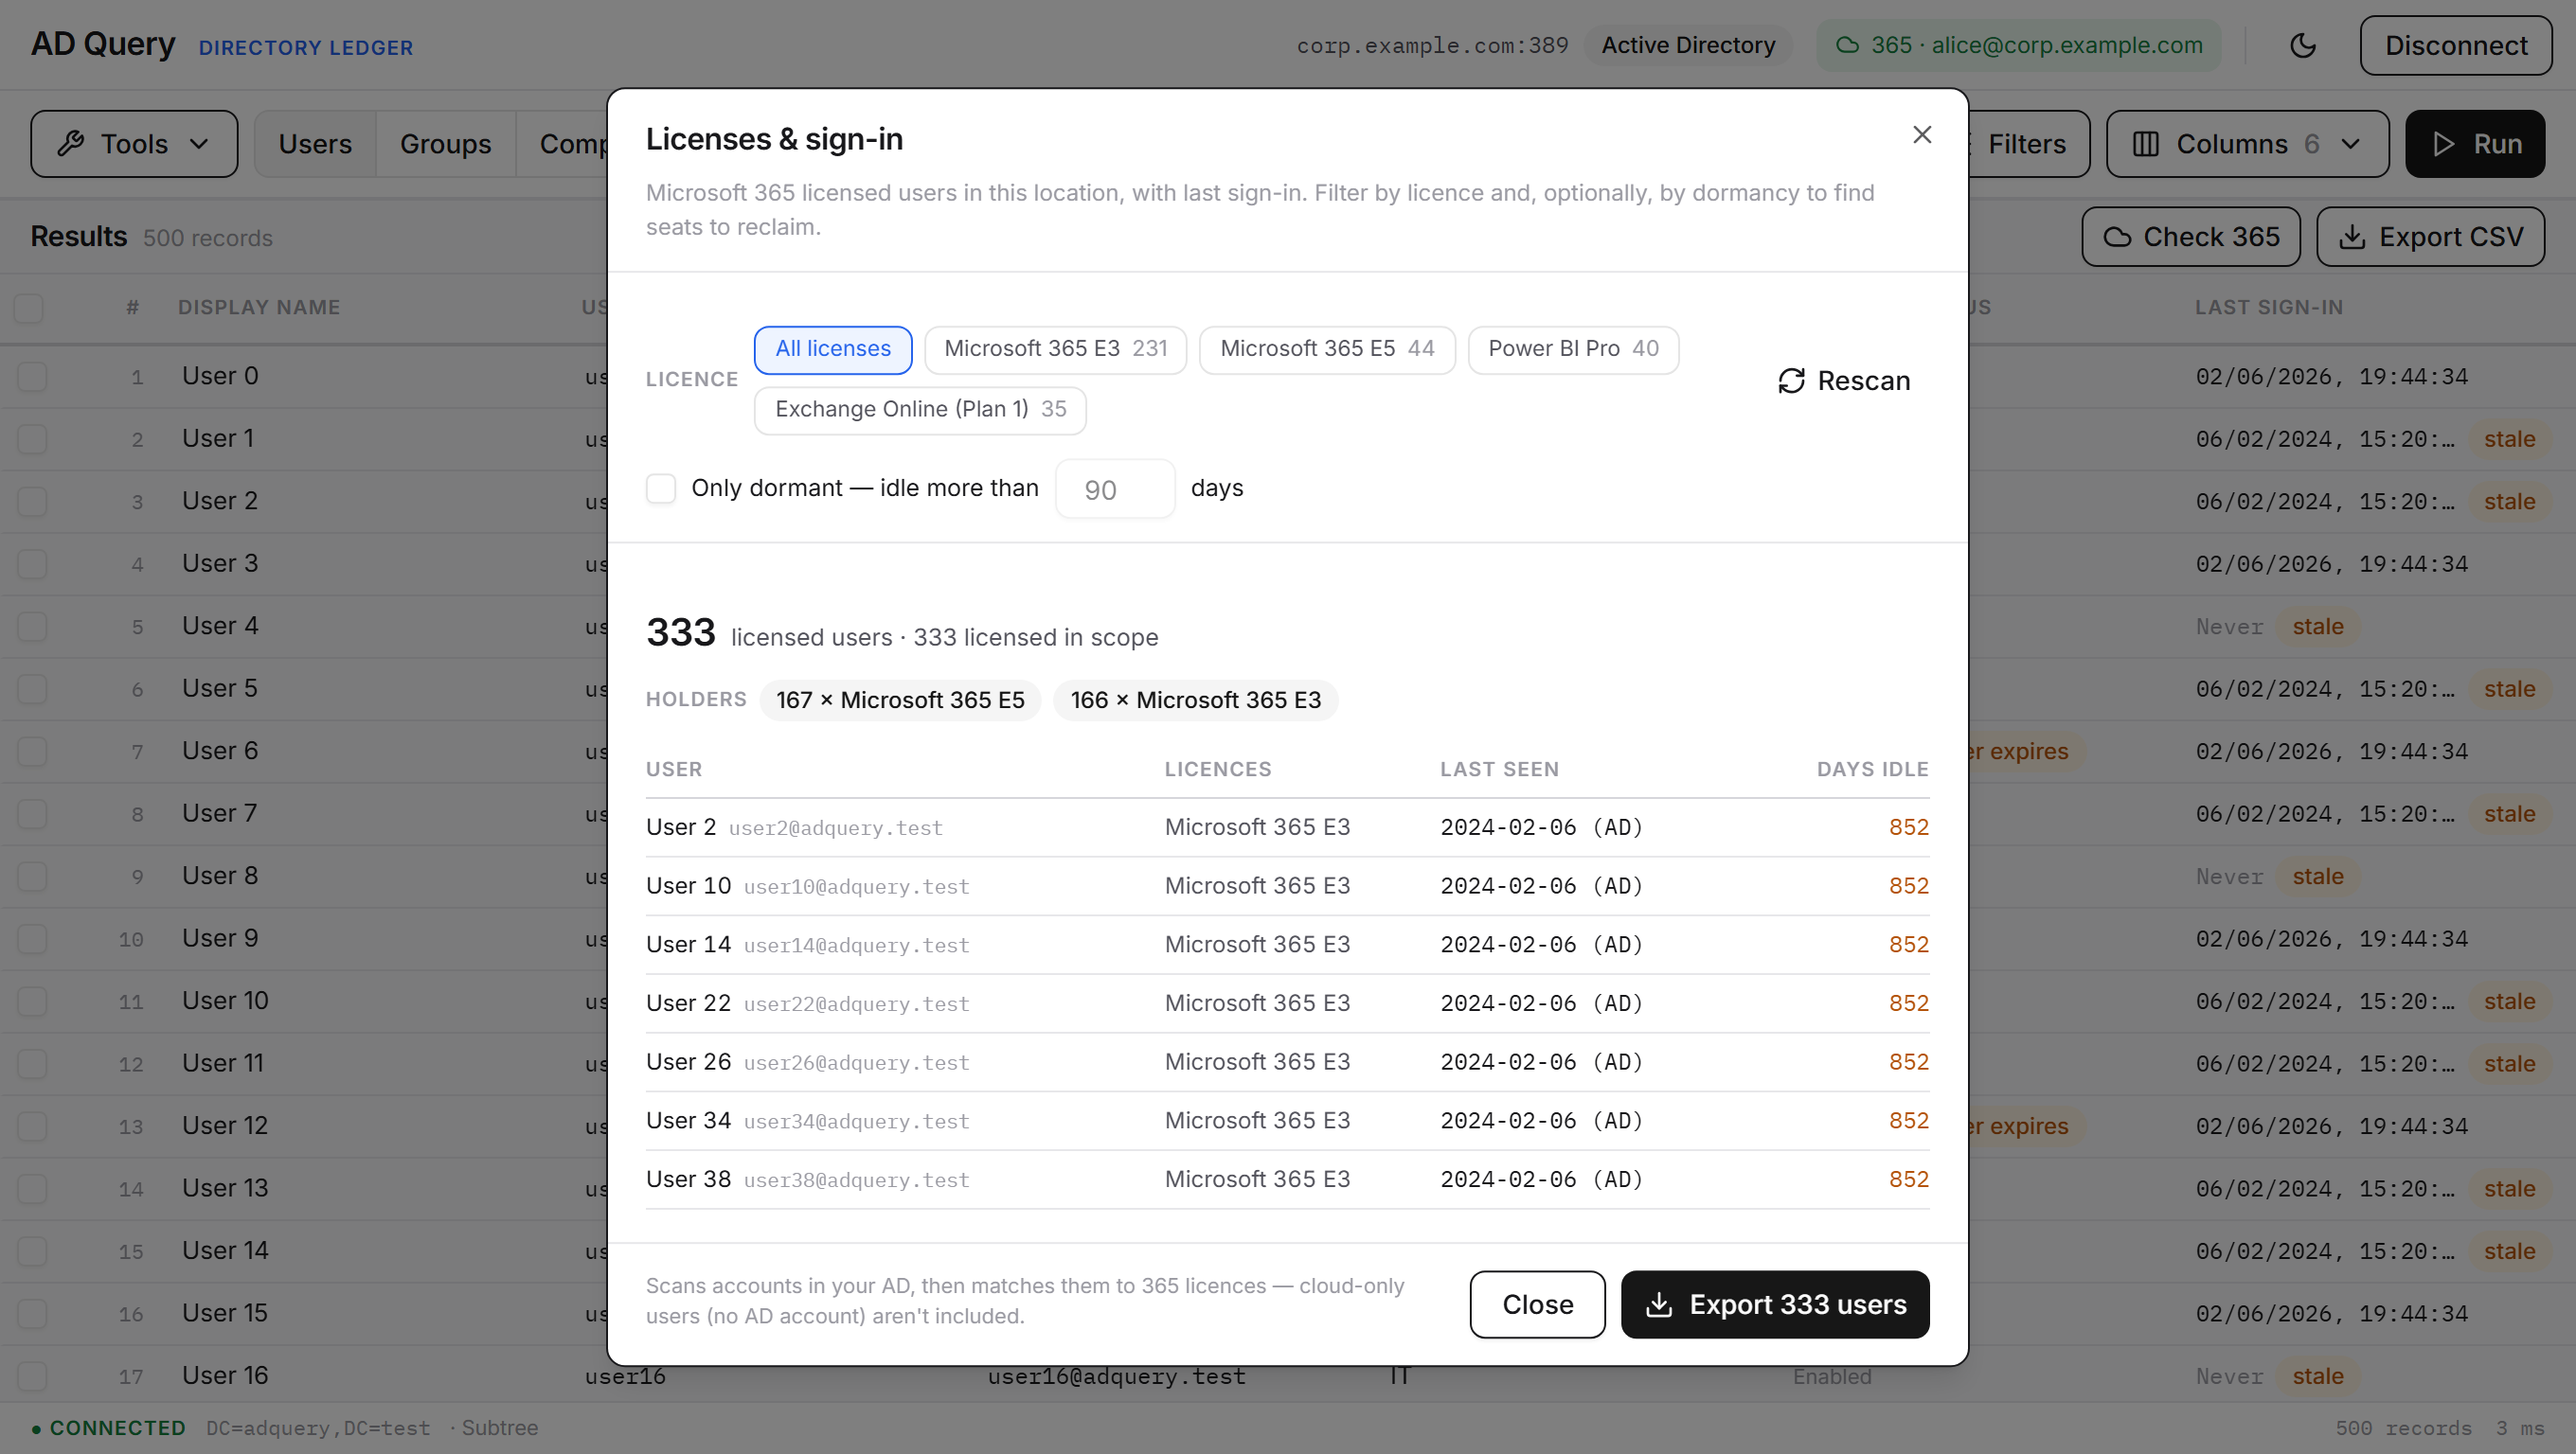
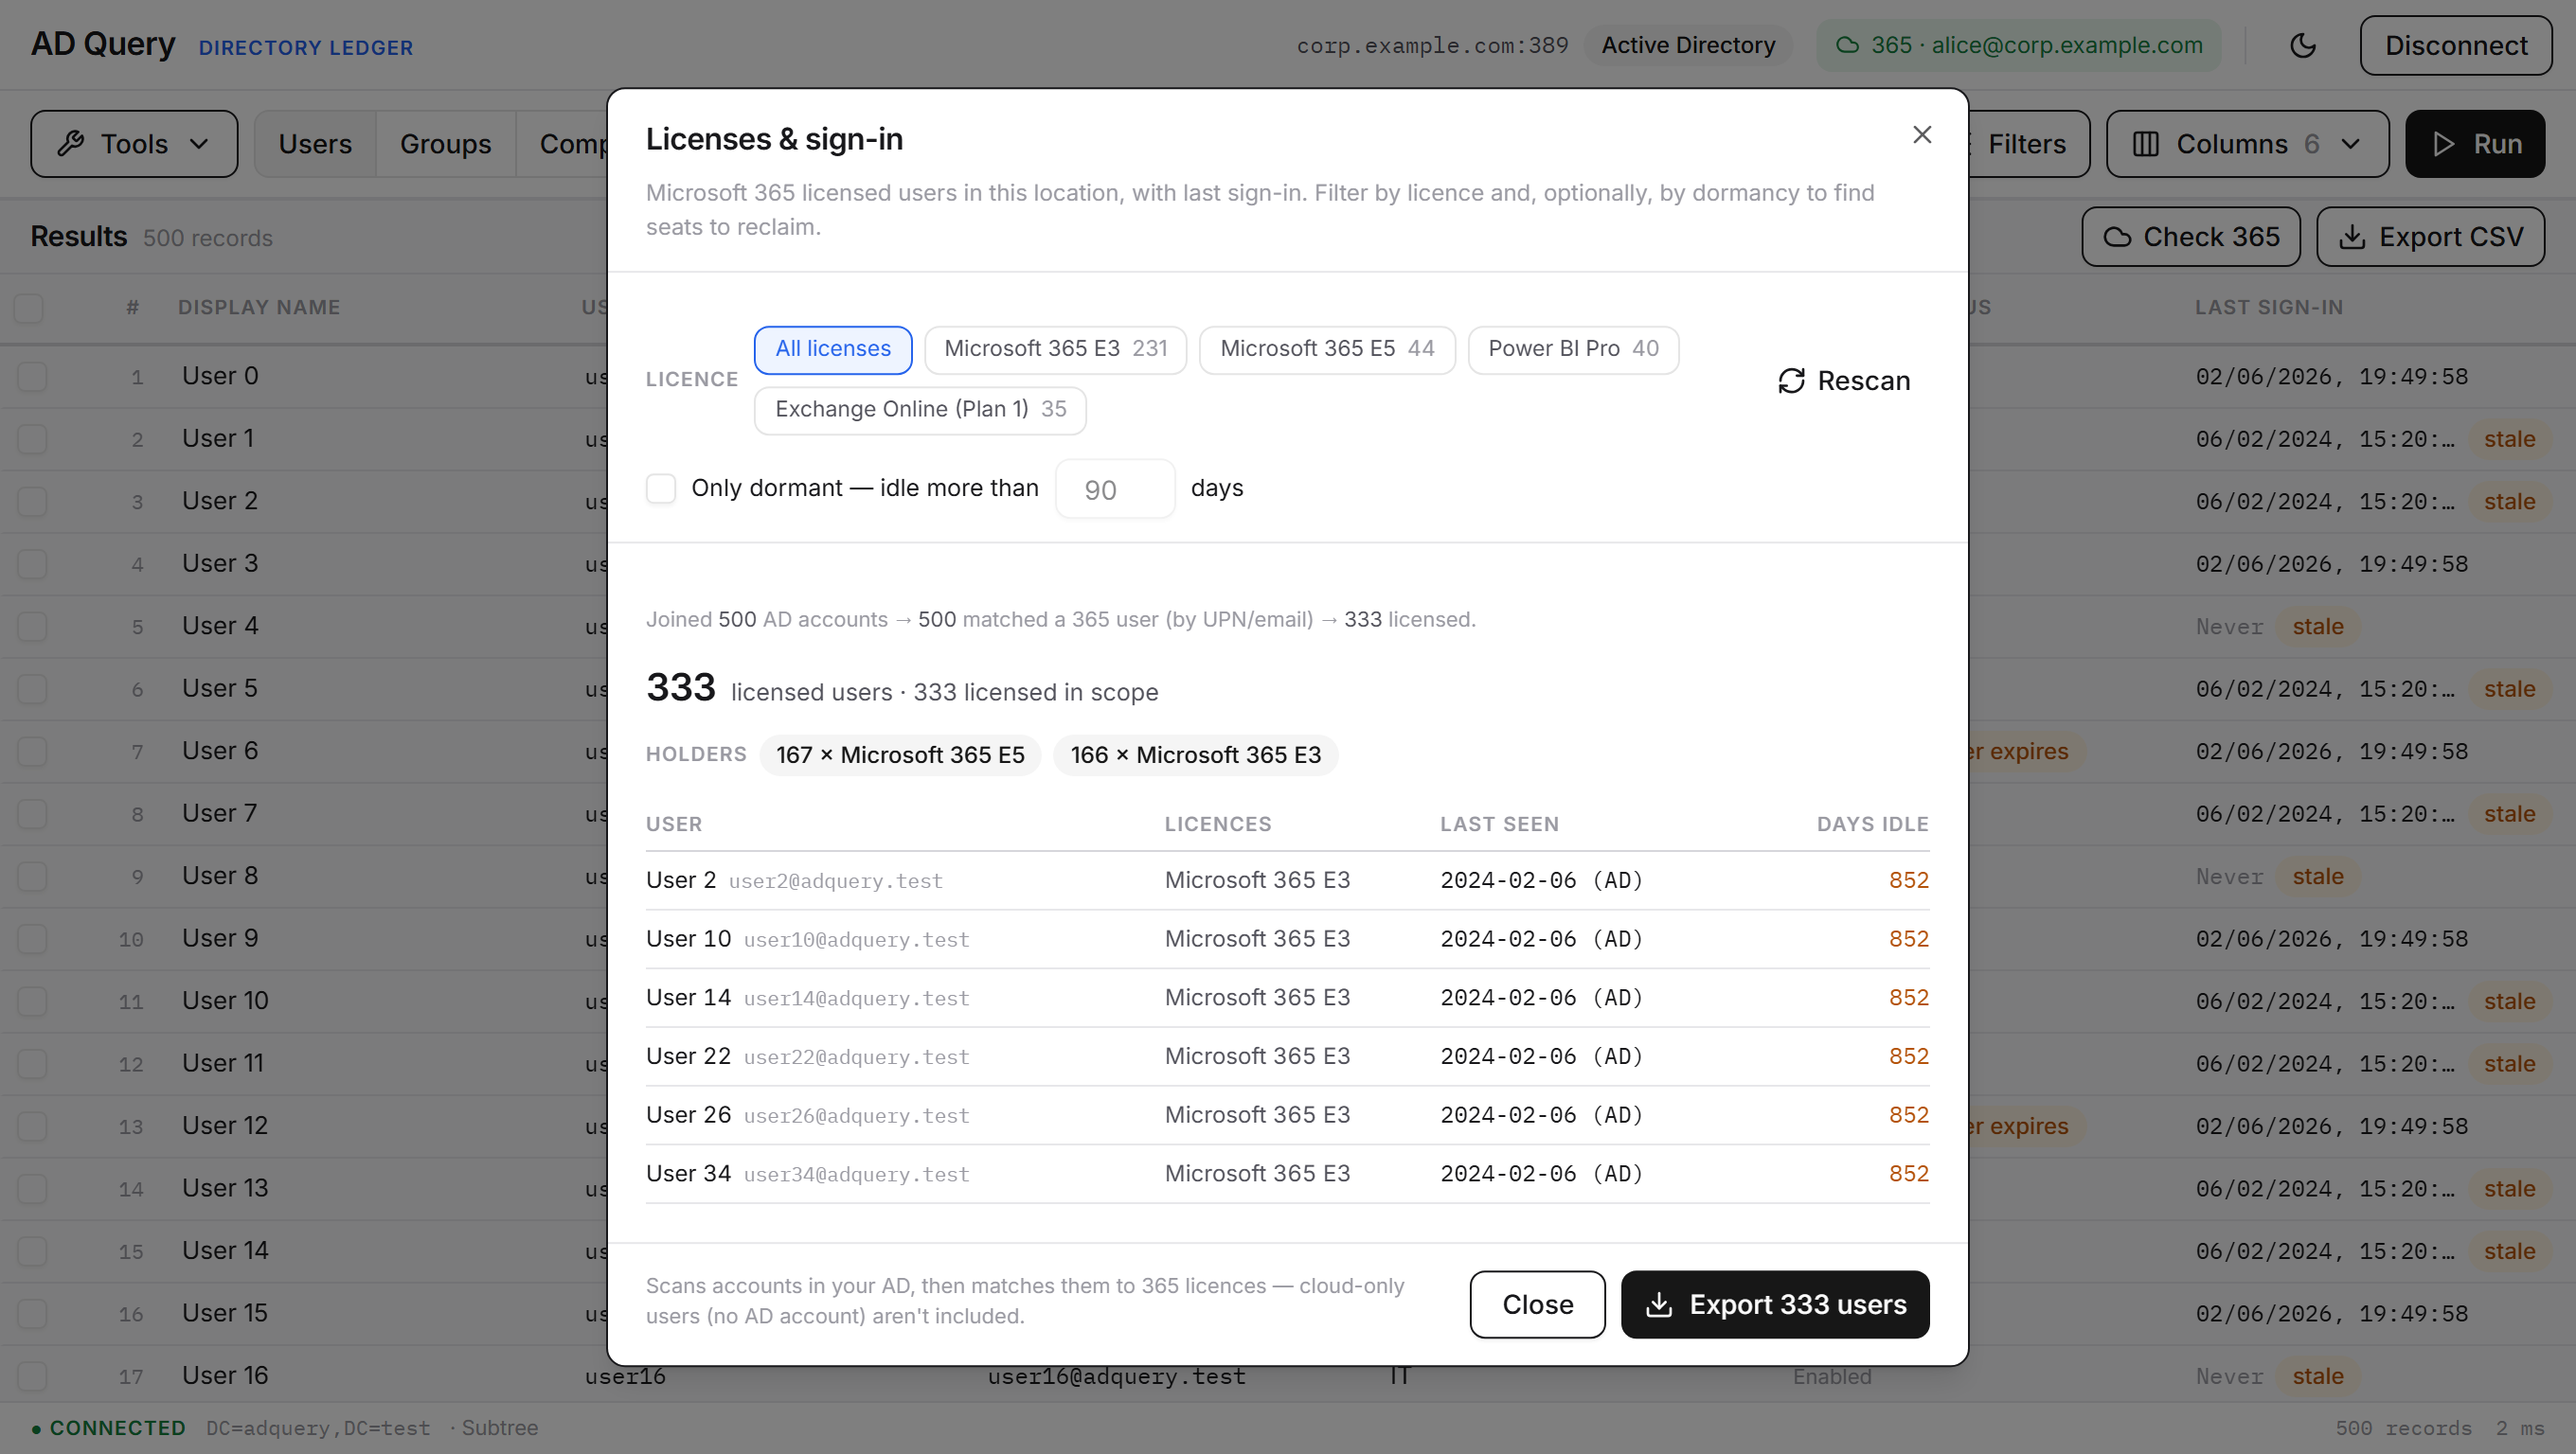
feat(reports+inspect): show 365 join provenance; friendly inspector labels
Journey 5 (local<->365 join): the Licenses report now shows the join trail —
"Joined N AD accounts -> M matched a 365 user (by UPN/email) -> K licensed" —
so the relationship between the local directory and 365 is explicit (answers
the "does it marry local and 365?" confusion), and the empty case is grounded
in the same numbers.

Journey 3 (inspect): the object inspector's attribute list now shows the
friendly label with the raw attribute name beside it (e.g. "Display name
displayName"), consistent with the grid headers and pickers.

Build + 56 vitest + gallery green.

diff --git a/app/frontend/src/components/ReclaimDialog.tsx b/app/frontend/src/components/ReclaimDialog.tsx
@@ -39,6 +39,7 @@ export function ReclaimDialog({ isAD, baseDN, onClose }: Props) {
   const [skus, setSkus] = useState<m365.LicenseSku[]>([]);
   const [selected, setSelected] = useState<string[]>([]); // product names; [] = all licenses
   const [all, setAll] = useState<Holder[]>([]);           // every licensed user in scope
+  const [prov, setProv] = useState({ scanned: 0, matched: 0 }); // join provenance
   const [dormantOnly, setDormantOnly] = useState(false);
   const [days, setDays] = useState(90);
   const [error, setError] = useState("");
@@ -65,15 +66,19 @@ export function ReclaimDialog({ isAD, baseDN, onClose }: Props) {
       setSkus(report ?? []);
 
       const entries = res.entries ?? [];
-      const ids = Array.from(new Set(entries.map((e) => first(e, "userPrincipalName") || first(e, "mail")).filter(Boolean)));
+      const withId = entries.filter((e) => first(e, "userPrincipalName") || first(e, "mail"));
+      const ids = Array.from(new Set(withId.map((e) => first(e, "userPrincipalName") || first(e, "mail"))));
       const byId = new Map<string, m365.User>();
       if (ids.length) for (const u of await M365Check(ids)) byId.set((u.identity || "").toLowerCase(), u);
 
       const out: Holder[] = [];
+      let matched = 0;
       for (const e of entries) {
         const upn = first(e, "userPrincipalName") || first(e, "mail");
         const u = upn ? byId.get(upn.toLowerCase()) : undefined;
-        if (!u || !u.exists || !u.licenses || u.licenses.length === 0) continue; // licensed users only
+        if (!u || !u.exists) continue;
+        matched++; // AD account that resolved to a real 365 user
+        if (!u.licenses || u.licenses.length === 0) continue; // licensed users only
         const adFt = first(e, "lastLogonTimestamp");
         out.push({
           displayName: first(e, "displayName"), sAMAccountName: first(e, "sAMAccountName"), upn,
@@ -81,6 +86,7 @@ export function ReclaimDialog({ isAD, baseDN, onClose }: Props) {
           seen: combineLastSeen(adFt, u.lastSignIn),
         });
       }
+      setProv({ scanned: withId.length, matched });
       setAll(out); setPhase("ready");
     } catch (e: any) { setError(String(e?.message ?? e)); setPhase("error"); }
   }
@@ -144,6 +150,12 @@ export function ReclaimDialog({ isAD, baseDN, onClose }: Props) {
           {phase === "needsSignin" && <div className="text-[12.5px] text-ink-2">Sign in to Microsoft 365 first (the ☁ button) — licences and cloud sign-ins come from Entra.</div>}
           {phase === "scanning" && <div className="flex items-center gap-2 text-[12.5px] text-ink-2"><Loader2 size={14} className="animate-spin" /> Joining licensed users with last-login…</div>}
           {phase === "error" && <ErrorBanner error={error} />}
+
+          {phase === "ready" && (
+            <p className="text-[11px] text-ink-3 mb-3">
+              Joined <span className="text-ink-2">{prov.scanned.toLocaleString()}</span> AD accounts → <span className="text-ink-2">{prov.matched.toLocaleString()}</span> matched a 365 user (by UPN/email) → <span className="text-ink-2">{all.length.toLocaleString()}</span> licensed.
+            </p>
+          )}
 
           {phase === "ready" && all.length === 0 && (
             <div className="text-[12.5px] text-ink-2 space-y-2">

diff --git a/app/frontend/src/components/Inspector.tsx b/app/frontend/src/components/Inspector.tsx
@@ -7,6 +7,7 @@ import { Button } from "@/components/ui/button";
 import { Badge } from "@/components/ui/badge";
 import { Tabs, TabsList, TabsTrigger } from "@/components/ui/tabs";
 import { StatusBadge } from "@/components/ui/status-badge";
+import { labelFor } from "@/lib/attrLabels";
 
 interface Props {
   entry: ldap.Entry | null;
@@ -44,7 +45,7 @@ function InspectorBody({ entry, onClose }: { entry: ldap.Entry; onClose: () => v
           <dl className="space-y-2">
             {attrs.map((a) => (
               <div key={a}>
-                <dt className="text-[11px] font-semibold text-ink-3 font-mono">{a}</dt>
+                <dt className="text-[11px] font-semibold text-ink-2">{labelFor(a)} <span className="font-mono font-normal text-ink-3">{a}</span></dt>
                 <dd className="text-[12px] break-words selectable font-mono">{formatValue(a, entry.attributes[a], "\n")}</dd>
               </div>
             ))}
